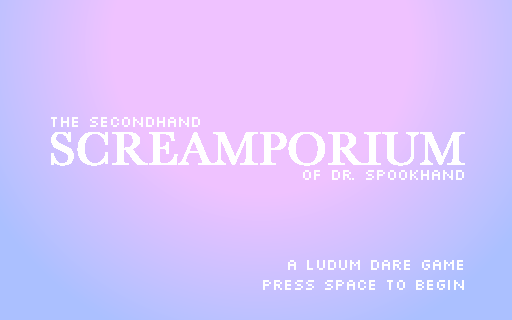
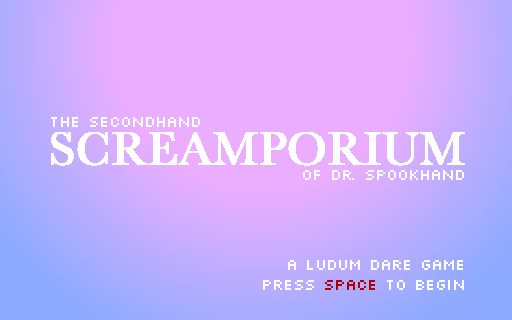
Instructions

Changed region(s): [[0.0, 0.5312, 0.3438, 1.0], [0.6875, 0.5938, 1.0, 1.0], [0.625, 0.875, 0.75, 0.9062]]

diff --git a/src/splashlayer.go b/src/splashlayer.go
@@ -27,6 +27,7 @@ const (
 	SplashStart
 	SplashWin
 	SplashLose
+	SplashInstructions
 )
 
 type SplashLayer struct {
@@ -68,6 +69,15 @@ func (l *SplashLayer) Render() {
 	}
 }
 
+func (l *SplashLayer) AdvanceState() {
+	switch l.state.SplashState {
+	case SplashStart:
+		l.state.SplashState = SplashInstructions
+	default:
+		l.state.SplashState = SplashDisabled
+	}
+}
+
 func (l *SplashLayer) HandleEvent(evt twodee.Event) bool {
 	if l.state.SplashState != SplashDisabled {
 		switch event := evt.(type) {
@@ -77,11 +87,11 @@ func (l *SplashLayer) HandleEvent(evt twodee.Event) bool {
 			}
 			switch event.Code {
 			case twodee.KeySpace:
-				l.state.SplashState = SplashDisabled
+				l.AdvanceState()
 			}
 		case *twodee.MouseButtonEvent:
 			if event.Type == twodee.Press && event.Button == twodee.MouseButtonLeft {
-				l.state.SplashState = SplashDisabled
+				l.AdvanceState()
 			}
 		}
 	}

diff --git a/src/splashrenderer.go b/src/splashrenderer.go
@@ -54,6 +54,8 @@ func (r *SplashRenderer) Draw(state *State) {
 		frame = "win"
 	case SplashLose:
 		frame = "lose"
+	case SplashInstructions:
+		frame = "instructions"
 	}
 	if frame != "" {
 		configs = []twodee.SpriteConfig{
